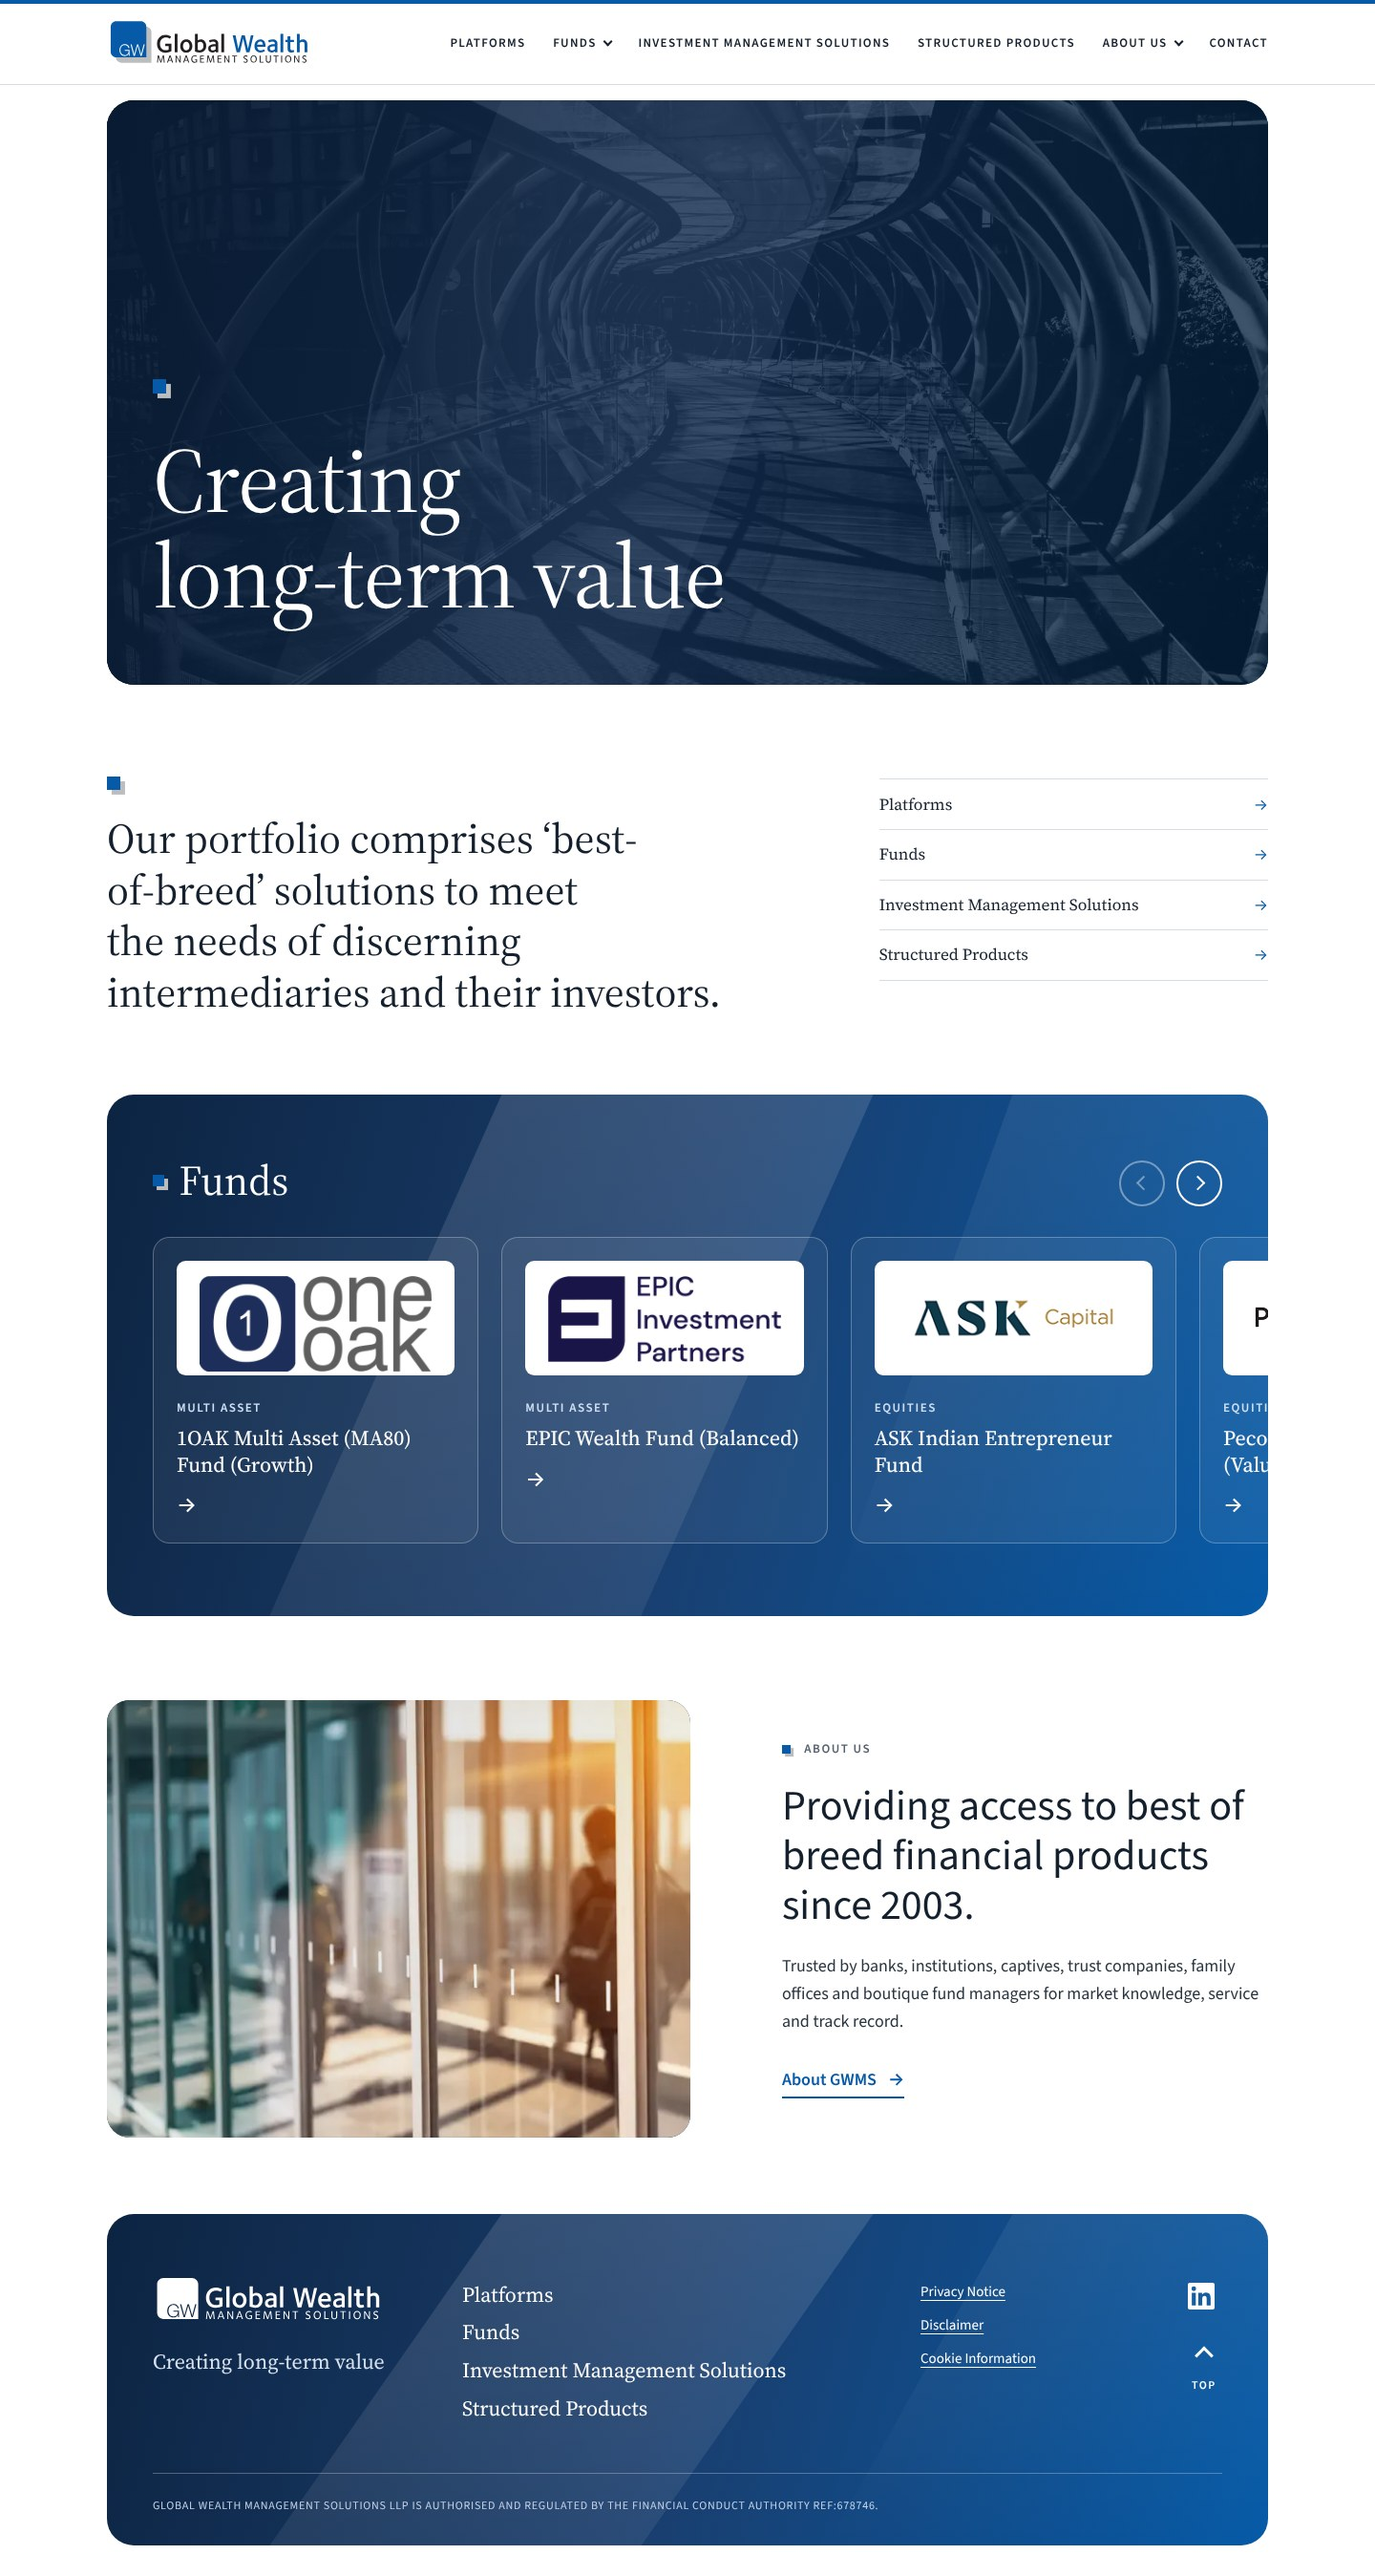
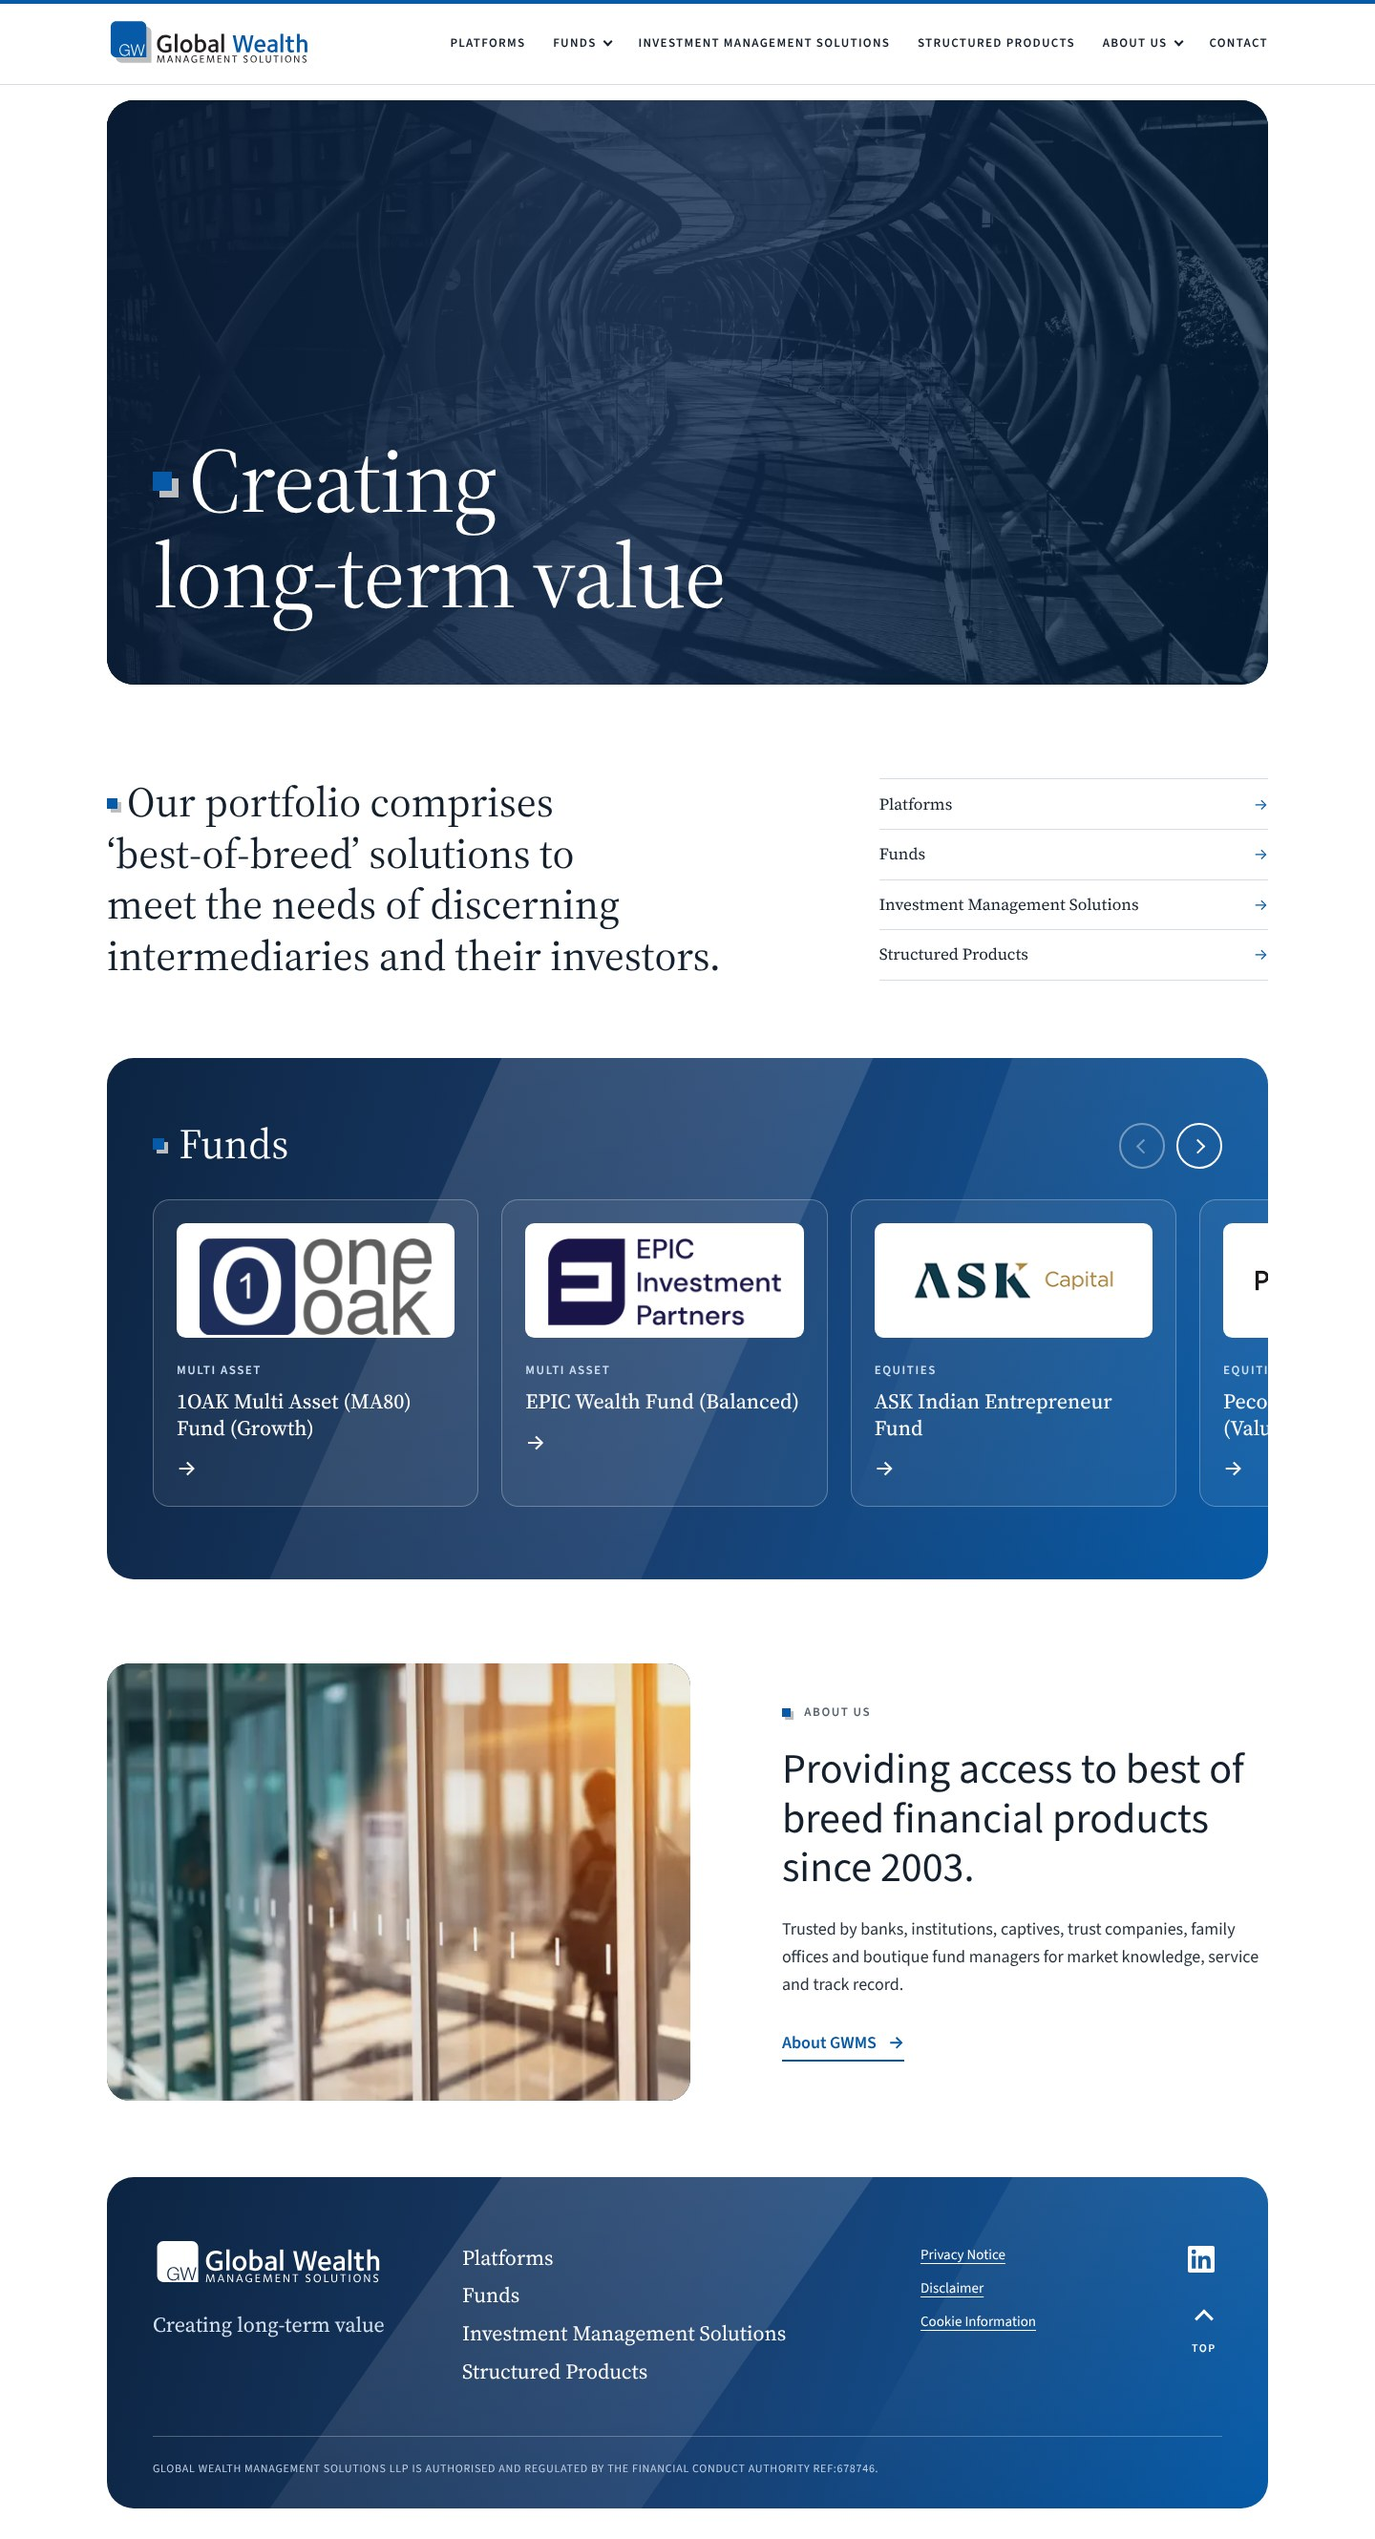
Concept home: inline decorative marker in every section

diff --git a/preview/concept-home/index.html b/preview/concept-home/index.html
@@ -102,16 +102,14 @@
     <img src="../img/hero-1280.webp" width="1280" height="928" alt="" fetchpriority="high">
   </picture>
   <div class="container hero__inner">
-    <span class="motif" aria-hidden="true"></span>
-    <h1 class="hero__title" id="home-title">Creating <br>long-term value</h1>
+    <h1 class="hero__title" id="home-title"><span class="motif" aria-hidden="true"></span>Creating <br>long-term value</h1>
   </div>
 </section>
 </div>
 <section class="statement statement--plain">
   <div class="container statement__grid">
     <div class="statement__text">
-      <span class="motif" aria-hidden="true"></span>
-      <h2 class="statement__lead">Our portfolio comprises ‘best-of-breed’ solutions to meet the needs of discerning intermediaries and their investors.</h2>
+      <h2 class="statement__lead"><span class="motif" aria-hidden="true"></span>Our portfolio comprises ‘best-of-breed’ solutions to meet the needs of discerning intermediaries and their investors.</h2>
     </div>
     <ul class="index">
       <li><a href="../platforms/index.html"><span>Platforms</span></a></li>

diff --git a/preview/css/concept.css b/preview/css/concept.css
@@ -112,7 +112,9 @@
 
 /* ---- Second section: top-aligned, quieter index links, decorative marker ---------- */
 .statement--plain .statement__grid { align-items: start; }
-.statement__text .motif { font-size: 1.1rem; display: block; margin-bottom: var(--s-5); }
+/* inline marker: sits on the first line of the text, sized relative to it */
+.statement__lead .motif { font-size: 0.32em; margin-right: 0.7em; vertical-align: 0.55em; }
+.hero__title .motif { font-size: 0.26em; margin: 0 0.7em 0 0; vertical-align: 0.9em; }
 .statement--plain .index a { font-size: 1.0625rem; padding: 0.95rem 0; }
 .statement--plain .index a::after { font-size: 1rem; }
 @media (min-width: 60rem) { .statement--plain .index { margin-top: 0.15rem; } }

diff --git a/tools/make_preview.py b/tools/make_preview.py
@@ -258,16 +258,14 @@ CONCEPT = f'''<div class="frame">
     <img src="/img/hero-1280.webp" width="1280" height="928" alt="" fetchpriority="high">
   </picture>
   <div class="container hero__inner">
-    <span class="motif" aria-hidden="true"></span>
-    <h1 class="hero__title" id="home-title">Creating <br>long-term value</h1>
+    <h1 class="hero__title" id="home-title"><span class="motif" aria-hidden="true"></span>Creating <br>long-term value</h1>
   </div>
 </section>
 </div>
 <section class="statement statement--plain">
   <div class="container statement__grid">
     <div class="statement__text">
-      <span class="motif" aria-hidden="true"></span>
-      <h2 class="statement__lead">Our portfolio comprises ‘best-of-breed’ solutions to meet the needs of discerning intermediaries and their investors.</h2>
+      <h2 class="statement__lead"><span class="motif" aria-hidden="true"></span>Our portfolio comprises ‘best-of-breed’ solutions to meet the needs of discerning intermediaries and their investors.</h2>
     </div>
     <ul class="index">
       <li><a href="/platforms"><span>Platforms</span></a></li>

diff --git a/docs/08-concept-home.md b/docs/08-concept-home.md
@@ -42,3 +42,6 @@ Footer "Back to top" → **"Top"** (screen readers announce "Top of page"), with
 
 ## Revision 7
 About-band photo swapped to the warm sunlit version of the glass corridor (`design-assets/supplied/photo-glass-corridor-warm.jpg`). The earlier blue colour-shift was removed (it turned the orange to yellow); only a faint navy tint remains at the top-left. This is a deliberate warm accent against the navy/blue palette — say if you want it cooled toward blue instead.
+
+## Revision 8
+The offset-square marker is now inline with the first line of text in every section: hero headline, second-section statement, Funds heading and About label (it was above the text in the first two).
